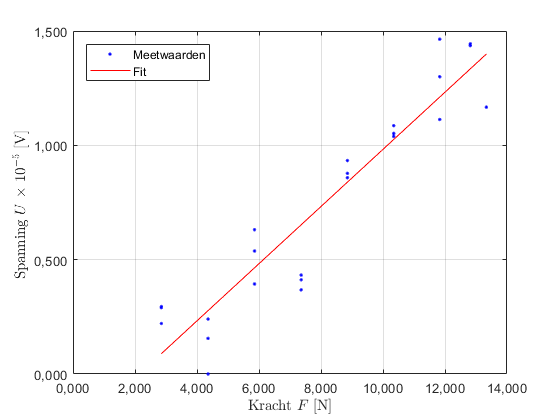
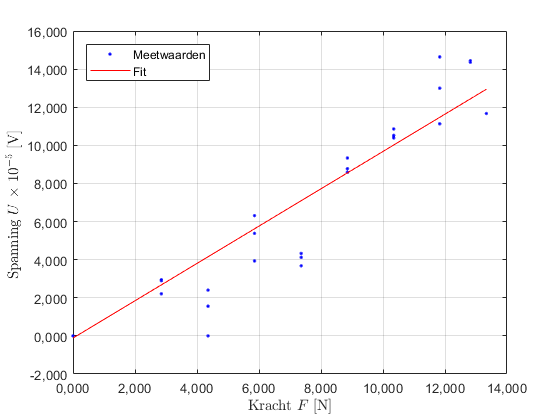
piezo

diff --git a/Data/VO/Meting gewichten/gevoeligheid.m b/Data/VO/Meting gewichten/gevoeligheid.m
@@ -5,7 +5,7 @@ time_raw = sample(:,5);
 % meting = sample(:,1);
 massa = sample(:,1);
 freq_piek1 = sample(:,2);
-spanning_piek1 = sample(:,3);
+% spanning_piek1 = sample(:,3);
 freq_piek2 = sample(:,4);
 spanning_piek2 = sample(:,5);
 
@@ -17,7 +17,7 @@ m_tot = massa + rust_massa;
 
 % kracht = omega.^2*r.*m_tot;
 a_z = r*omega.^2
-kracht = m_tot.*(a_z)
+% kracht = m_tot.*(a_z)
 
 
 
@@ -26,8 +26,8 @@ fit_gevoeligheid_piek1(kracht, spanning_piek1)
 
 % labels & legend zelf aanpassen in createFit
 xlim([0 14])
-% legend('Meetwaarden', 'Fit: ax+b      a=1,487\times10^{-5}     b=-2,560\times10^{-5}     R^2=0,8768', 'Interpreter', 'latex', 'Location' ,'NorthWest')
-legend('Meetwaarden', 'Fit', 'Interpreter', 'latex', 'Location' ,'NorthWest')
+legend('Meetwaarden', 'Fit: ax+b      a=9,778\times10^{-6}     b=-9,980\times10^{-7}     R^2=0,9451', 'Interpreter', 'latex', 'Location' ,'NorthWest')
+% legend('Meetwaarden', 'Fit', 'Interpreter', 'latex', 'Location' ,'NorthWest')
 
 % Correcte significantie maken voor plot 1
 xtickformat('%.3f')

diff --git a/Data/VO/Meting gewichten/fit_gevoeligheid_piek1.m b/Data/VO/Meting gewichten/fit_gevoeligheid_piek1.m
@@ -11,20 +11,17 @@ function [fitresult, gof] = createFit(kracht, spanning_piek1)
 %
 %  See also FIT, CFIT, SFIT.
 
-%  Auto-generated by MATLAB on 09-Jan-2018 13:38:26
+%  Auto-generated by MATLAB on 10-Jan-2018 17:11:07
 
 
 %% Fit: 'untitled fit 1'.
 [xData, yData] = prepareCurveData( kracht, spanning_piek1 );
 
 % Set up fittype and options.
-ft = fittype( 'a*x+b', 'independent', 'x', 'dependent', 'y' );
-opts = fitoptions( 'Method', 'NonlinearLeastSquares' );
-opts.Display = 'Off';
-opts.StartPoint = [0.0855538800830269 0.724901288421];
+ft = fittype( 'poly1' );
 
 % Fit model to data.
-[fitresult, gof] = fit( xData, yData, ft, opts );
+[fitresult, gof] = fit( xData, yData, ft );
 
 % Plot fit with data.
 figure( 'Name', 'untitled fit 1' );
